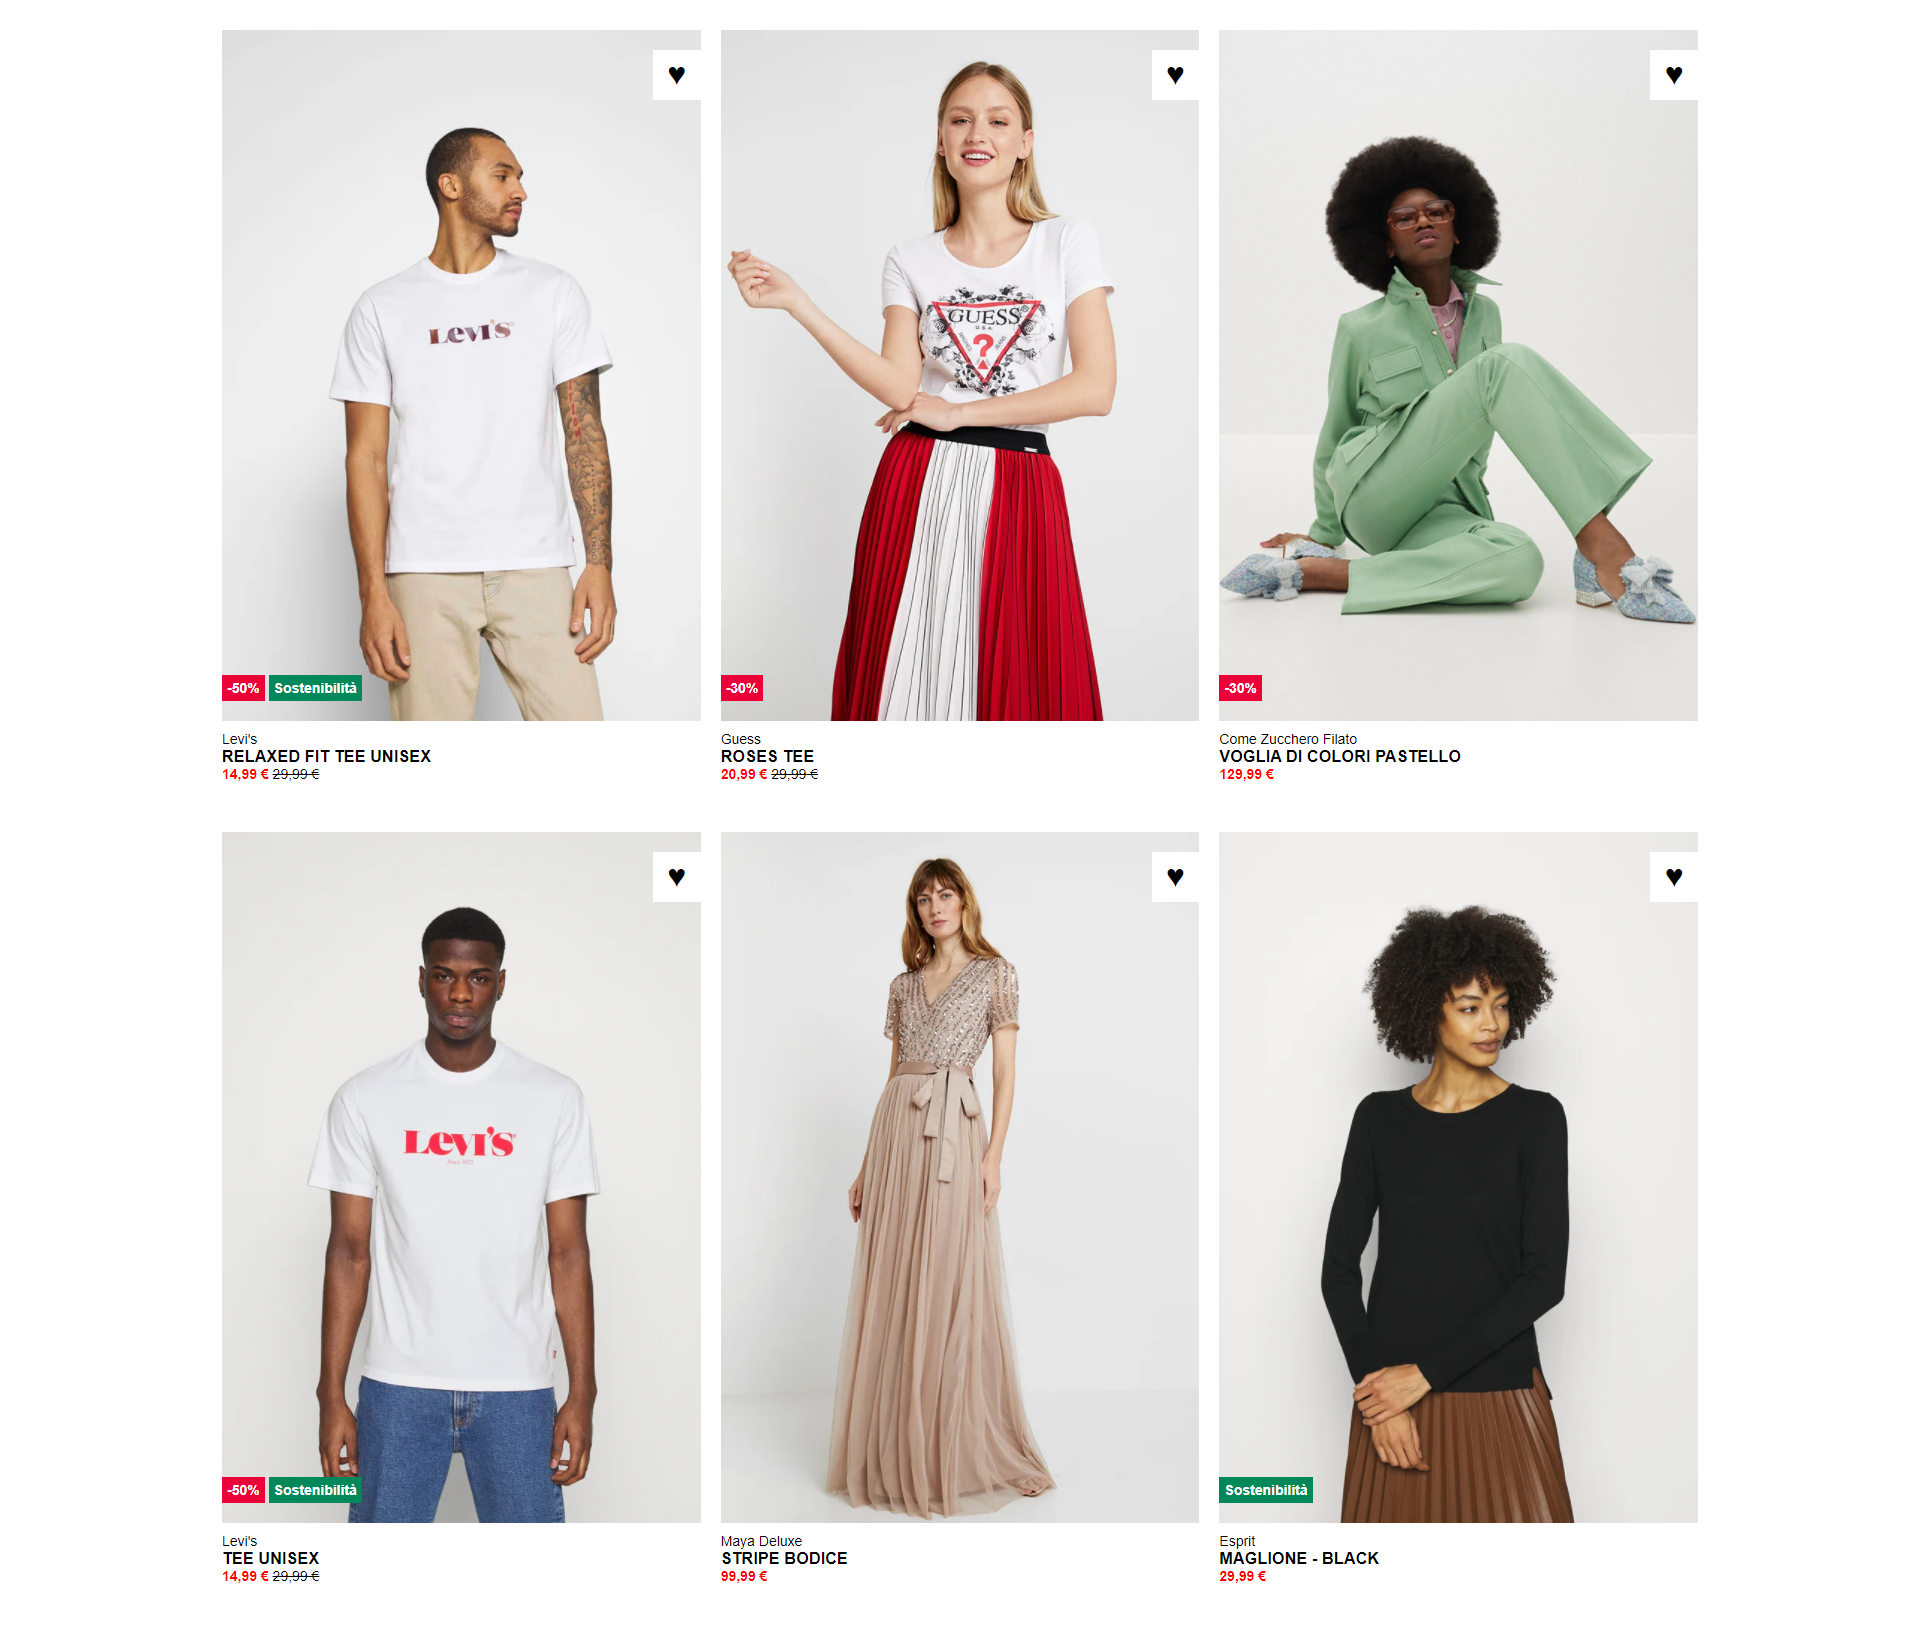
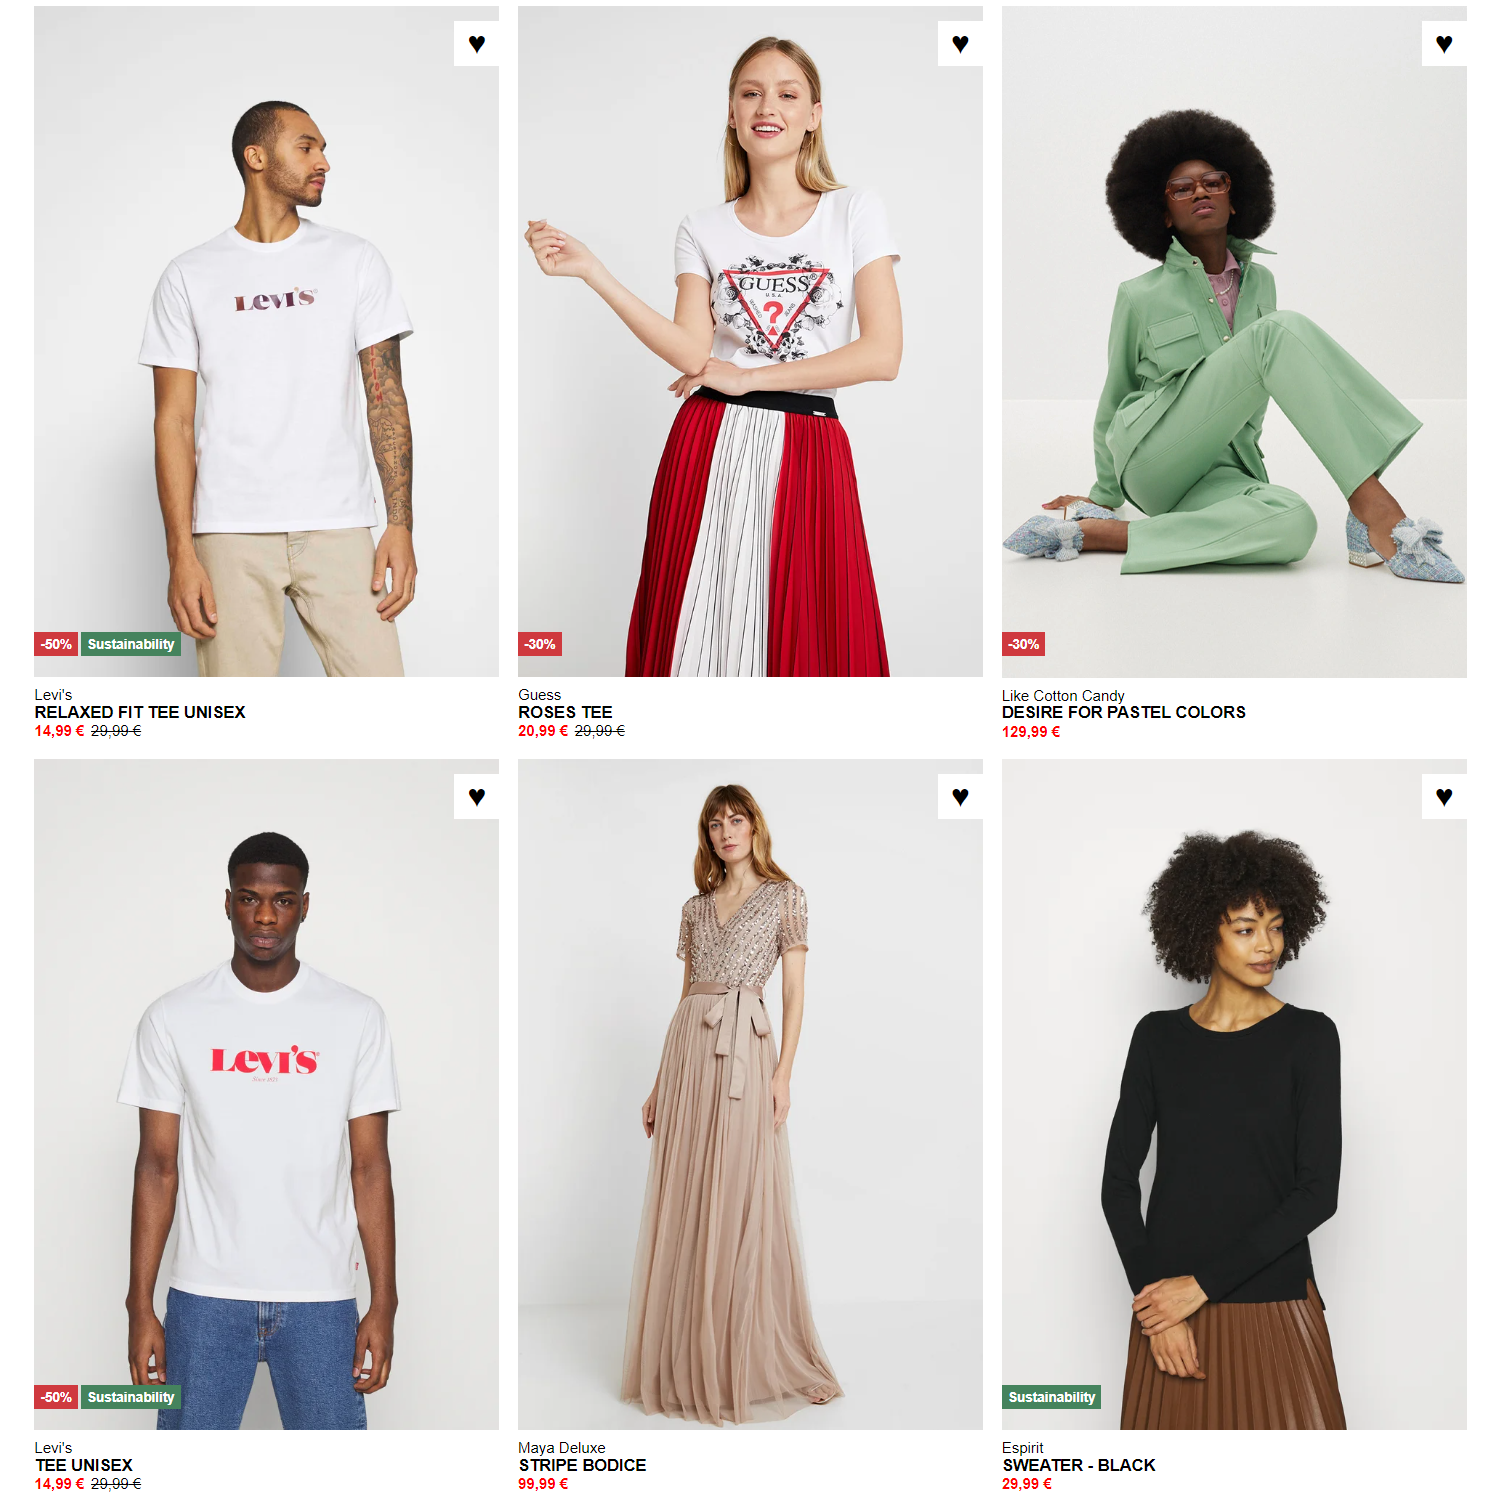
Refactoring, Updated README, Translated to English

diff --git a/index.html b/index.html
@@ -3,25 +3,27 @@
   <head>
     <meta charset="UTF-8" />
     <title>Boolando</title>
-    <link rel="stylesheet" href="style.css" />
+    <link rel="stylesheet" href="/css/style.css" />
   </head>
   <body>
     <div class="container">
       <div class="row">
-        <div class="item test">
+        <div class="item">
           <img src="img/1.webp" alt="" />
           <img src="img/1b.webp" alt="" />
 
+          <div class="favourite-add"></div>
+
           <div class="tags">
-            <div class="tag-discount">-50</div>
-            <div class="tag-eco"></div>
+            <p class="tag-discount">-50</p>
+            <p class="tag-eco"></p>
           </div>
 
           <div class="item-info">
-            <div class="item-brand">Levi's</div>
-            <div class="item-name">Relaxed Fit Tee Unisex</div>
-            <div class="item-price-new">14,99</div>
-            <div class="item-price-old">29,99</div>
+            <p class="item-brand">Levi's</p>
+            <p class="item-name">Relaxed Fit Tee Unisex</p>
+            <p class="item-price-new">14,99</p>
+            <p class="item-price-old">29,99</p>
           </div>
         </div>
 
@@ -32,14 +34,14 @@
           <div class="favourite-add"></div>
 
           <div class="tags">
-            <div class="tag-discount">-30</div>
+            <p class="tag-discount">-30</p>
           </div>
 
           <div class="item-info">
-            <div class="item-brand">Guess</div>
-            <div class="item-name">Roses Tee</div>
-            <div class="item-price-new">20,99</div>
-            <div class="item-price-old">29,99</div>
+            <p class="item-brand">Guess</p>
+            <p class="item-name">Roses Tee</p>
+            <p class="item-price-new">20,99</p>
+            <p class="item-price-old">29,99</p>
           </div>
         </div>
 
@@ -50,13 +52,13 @@
           <div class="favourite-add"></div>
 
           <div class="tags">
-            <div class="tag-discount">-30</div>
+            <p class="tag-discount">-30</p>
           </div>
 
           <div class="item-info">
-            <div class="item-brand">Come Zucchero Filato</div>
-            <div class="item-name">Voglia Di Colori Pastello</div>
-            <div class="item-price-new">129,99</div>
+            <p class="item-brand">Like Cotton Candy</p>
+            <p class="item-name">Desire For Pastel Colors</p>
+            <p class="item-price-new">129,99</p>
           </div>
         </div>
       </div>
@@ -69,15 +71,15 @@
           <div class="favourite-add"></div>
 
           <div class="tags">
-            <div class="tag-discount">-50</div>
-            <div class="tag-eco"></div>
+            <p class="tag-discount">-50</p>
+            <p class="tag-eco"></p>
           </div>
 
           <div class="item-info">
-            <div class="item-brand">Levi's</div>
-            <div class="item-name">Tee Unisex</div>
-            <div class="item-price-new">14,99</div>
-            <div class="item-price-old">29,99</div>
+            <p class="item-brand">Levi's</p>
+            <p class="item-name">Tee Unisex</p>
+            <p class="item-price-new">14,99</p>
+            <p class="item-price-old">29,99</p>
           </div>
         </div>
 
@@ -88,9 +90,9 @@
           <div class="favourite-add"></div>
 
           <div class="item-info">
-            <div class="item-brand">Maya Deluxe</div>
-            <div class="item-name">Stripe Bodice</div>
-            <div class="item-price-new">99,99</div>
+            <p class="item-brand">Maya Deluxe</p>
+            <p class="item-name">Stripe Bodice</p>
+            <p class="item-price-new">99,99</p>
           </div>
         </div>
 
@@ -105,9 +107,9 @@
           </div>
 
           <div class="item-info">
-            <div class="item-brand">Espirit</div>
-            <div class="item-name">Maglione - Black</div>
-            <div class="item-price-new">29,99</div>
+            <p class="item-brand">Espirit</p>
+            <p class="item-name">Sweater - Black</p>
+            <p class="item-price-new">29,99</p>
           </div>
         </div>
       </div>

diff --git a/css/style.css b/css/style.css
@@ -1,28 +1,15 @@
+/* Layout */
 * {
   margin: 0;
   padding: 0;
   box-sizing: border-box;
 }
 
-/*Test per gestire il cuore senza html, come visto a lezione. Esito: non si può gestire l'hover sugli after*/
-.test::after {
-  position: absolute;
-  width: 30px;
-  height: 30px;
-  background-color: white;
-  top: 10px;
-  right: 0px;
-  text-align: center;
-  line-height: 30px;
-  font-size: 20px;
-  content: "\2665";
+body {
+  font-family: Arial, Helvetica, sans-serif;
 }
 
-.test:hover::after {
-  color: red;
-}
-
-/*Row e item*/
+/*Row and items*/
 .row {
   text-align: center;
 }
@@ -38,7 +25,7 @@
   cursor: pointer;
 }
 
-/*Item imgs hover*/
+/* Item images */
 .item img {
   width: 100%;
 }
@@ -53,33 +40,6 @@
 
 .item:hover img:first-child {
   display: none;
-}
-
-/*Add favourite button*/
-.favourite-add {
-  position: absolute;
-  width: 30px;
-  height: 30px;
-  background-color: white;
-  top: 10px;
-  right: 0px;
-  text-align: center;
-  line-height: 30px;
-  font-size: 20px;
-}
-
-.favourite-add::after {
-  content: "\2665";
-}
-
-.favourite-add:hover {
-  color: red;
-}
-
-/*Font*/
-.tags,
-.item-info {
-  font-family: Arial, Helvetica, sans-serif;
 }
 
 /*Item tags*/
@@ -115,7 +75,7 @@
 }
 
 .tag-eco::after {
-  content: "Sostenibilit\00E0";
+  content: "Sustainability";
 }
 
 /*Item info*/
@@ -154,4 +114,25 @@
 .item-price-new::after,
 .item-price-old::after {
   content: " \20AC";
+}
+
+/*Add favourite button*/
+.favourite-add {
+  position: absolute;
+  width: 30px;
+  height: 30px;
+  background-color: white;
+  top: 10px;
+  right: 0px;
+  text-align: center;
+  line-height: 30px;
+  font-size: 20px;
+}
+
+.favourite-add::after {
+  content: "\2665";
+}
+
+.favourite-add:hover {
+  color: red;
 }

diff --git a/README.md b/README.md
@@ -1,2 +1,13 @@
-# html-css-boolando
-html-css-boolando
+# boolean-htmlcss-boolando
+
+## EN
+
+Replication of Zalando item cards (https://www.zalando.it/) with HTML and CSS, focusing on the behavior of the css selectors :hover, :nth-child and :last-child, and the pseudo element ::after.
+
+## IT
+
+Replica delle item card di Zalando (https://www.zalando.it/) con HTML e CSS, con l'obbiettivo di studiare il funzionamento dei selettori css :hover, :nth-child e :last-child, e lo pseudo elemento ::after.
+
+## Preview
+
+![Alt text](/base.png?raw=true "Base")
